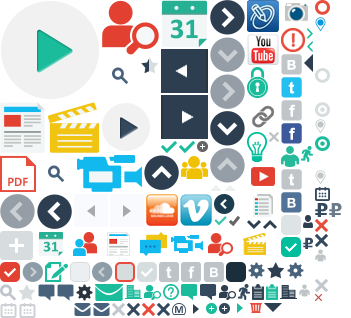
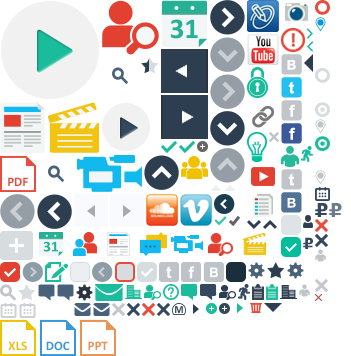
Каталог/Страница товара:
refs #7845

diff --git a/catalog_prosmotr_itema.html b/catalog_prosmotr_itema.html
@@ -166,7 +166,8 @@
                     <li class="breadcrumbs__item"><a class="breadcrumbs__link" href="#">Видеокамеры и камкодеры</a></li>
                     <li class="breadcrumbs__item"><a class="breadcrumbs__link" href="#">Камкодеры 3D</a></li>
                 </ul>
-				<h1 class="cnt__ttl">Panasonic AG-3DA 1E</h1>
+                <h1 class="cnt__ttl">Panasonic AG-3DA 1E</h1>
+                <a class="brand_ttl" href="#">Panasonic</a>
                 <div class="look">
                     <div class="look__top line">
                         <div class="look__gallery">
@@ -311,9 +312,10 @@
                 <div class="tabs tabs_small jsTabs">
                 <ul class="tabset">
                     <li class="tabset__item active"><a class="tabset__link" href="#tab01">Описание</a></li>
-                    <li class="tabset__item"><a class="tabset__link" href="#tab02">Технические характеристики</a></li>
+                    <li class="tabset__item"><a class="tabset__link" href="#tab02">Спецификации</a></li>
                     <li class="tabset__item"><a class="tabset__link" href="#tab03">Отзывы(2)</a></li>
                     <li class="tabset__item"><a class="tabset__link" href="#tab04">Аксессуары</a></li>
+                    <li class="tabset__item"><a class="tabset__link" href="#tab05">Доп. материалы</a></li>
                 </ul>
                 <div class="tab__content" style="overflow: hidden;">
                 <div id="tab01" class="tab js-tab-hidden" style="display: none; width: 580px;">
@@ -504,32 +506,44 @@
                         </div>
                     </div>
                 </div>
-                </div>
-                </div>
-                <div class="post__section">
-                    <h3 class="post__section-ttl">Видео</h3>
-                    <div class="visual">
-                        <ul class="visual__list visual__list_video">
-                            <li class="visual__list-item resize-pic">
-                                <a class="visual__list-image" href="#">
+                    <div id="tab05" class="tab js-tab-hidden" style="display: none; width: 580px;">
+                        <h3 class="post__section-ttl">Материалы производителя</h3>
+                        <div class="post__files">
+                            <a class="features__link" title="Скачать" href="#"><i class="ico ico_pdf"></i>Руководство пользователя<br/>(15,8 мб)</a>
+                            <a class="features__link" title="Скачать" href="#"><i class="ico ico_xls"></i>Руководство пользователя<br/>(15,8 мб)</a>
+                            <a class="features__link" title="Скачать" href="#"><i class="ico ico_doc"></i>Руководство пользователя<br/>(15,8 мб)</a>
+                            <a class="features__link" title="Скачать" href="#"><i class="ico ico_ppt"></i>Руководство пользователя<br/>(15,8 мб)</a>
+
+                        </div>
+
+                        <div class="post__section">
+                            <h3 class="post__section-ttl">Видео</h3>
+                            <div class="visual">
+                                <ul class="visual__list visual__list_video">
+                                    <li class="visual__list-item resize-pic">
+                                        <a class="visual__list-image" href="#">
                                     <span class="visual__list-frame resize-pic__item">
 										<span class="btn_play">play</span>
                                     	<img src="img/img33.jpg" width="200" height="200" alt="">
 									</span>
-                                    <span class="visual__list-txt">Название видео</span>
-                                </a>
-                            </li>
-                            <li class="visual__list-item resize-pic">
-								<a class="visual__list-image" href="#">
+                                            <span class="visual__list-txt">Название видео</span>
+                                        </a>
+                                    </li>
+                                    <li class="visual__list-item resize-pic">
+                                        <a class="visual__list-image" href="#">
                                     <span class="visual__list-frame resize-pic__item">
 										<span class="btn_play">play</span>
                                     	<img src="img/img34.jpg" width="1200" height="795" alt="">
 									</span>
-									<span class="visual__list-txt">Название видео</span>
-								</a>
-                            </li>
-                        </ul>
+                                            <span class="visual__list-txt">Название видео</span>
+                                        </a>
+                                    </li>
+                                </ul>
+                            </div>
+                        </div>
                     </div>
+
+                </div>
                 </div>
                 <div class="recent">
                     <div class="recent__top line">

diff --git a/css/style.css b/css/style.css
@@ -2252,10 +2252,28 @@ a:hover {
   height: 26px;
 }
 .ico_pdf {
-  background-image: url(../img/icons.png);
-  background-position: 0px -155px;
-  width: 36px;
-  height: 37px;
+    background-image: url(../img/icons.png);
+    background-position: 0px -155px;
+    width: 36px;
+    height: 37px;
+}
+.ico_xls {
+    background-image: url(../img/icons.png);
+    background-position: 0px -320px;
+    width: 36px;
+    height: 37px;
+}
+.ico_doc {
+    background-image: url(../img/icons.png);
+    background-position: -40px -320px;
+    width: 36px;
+    height: 37px;
+}
+.ico_ppt {
+    background-image: url(../img/icons.png);
+    background-position: -80px -320px;
+    width: 36px;
+    height: 37px;
 }
 .ico_person-green {
   background-image: url(../img/icons.png);
@@ -8073,7 +8091,7 @@ font-size: 14px;
   margin: 20px 20px 2px 57px;
   color: #34495e;
 }
-.features__link .ico_pdf {
+.features__link .ico_pdf, .features__link .ico_xls, .features__link .ico_doc, .features__link .ico_ppt {
   position: absolute;
   left: -57px;
   top: 0;
@@ -15153,3 +15171,6 @@ a.fr__full:hover{
 .news-col .parts { color:#a7a9ac; margin:0 0 5px 0; }
 .news-col .description { color:#58595b; }
 .news-col.news-border { border-bottom:solid 2px #d7dcde; padding: 0 0 15px 0; }
+.brand_ttl { font-size:16px; margin:-15px 0 20px 0; color: #1abc9c; display: inline-block; vertical-align: top; outline: none; }
+.brand_ttl:hover { text-decoration: none; }
+.post__files { margin:-15px 0 15px 0; }
